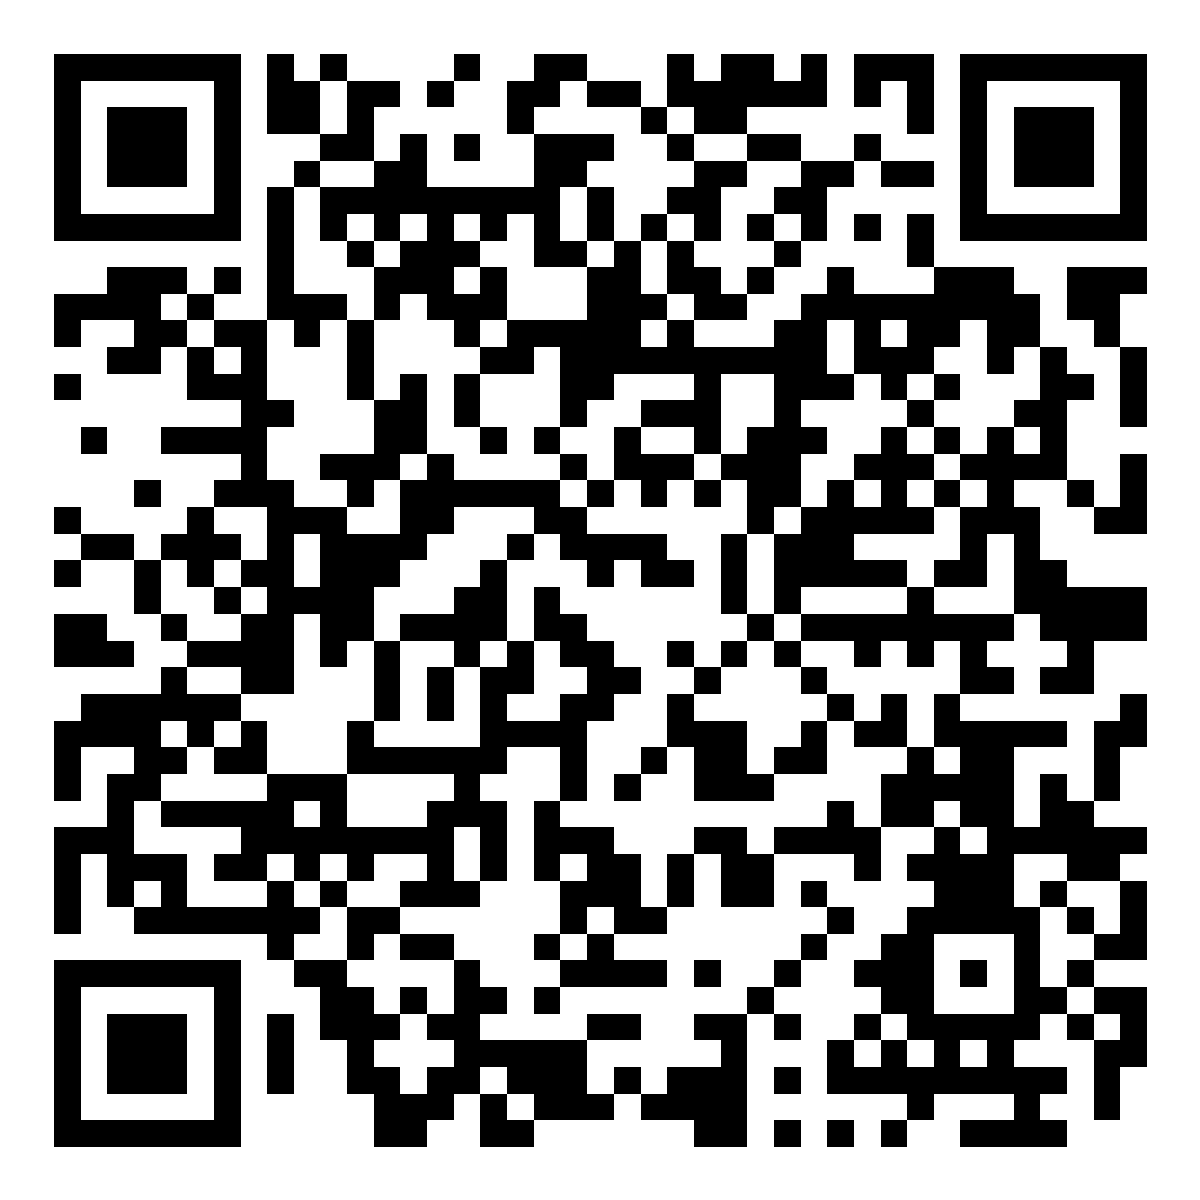
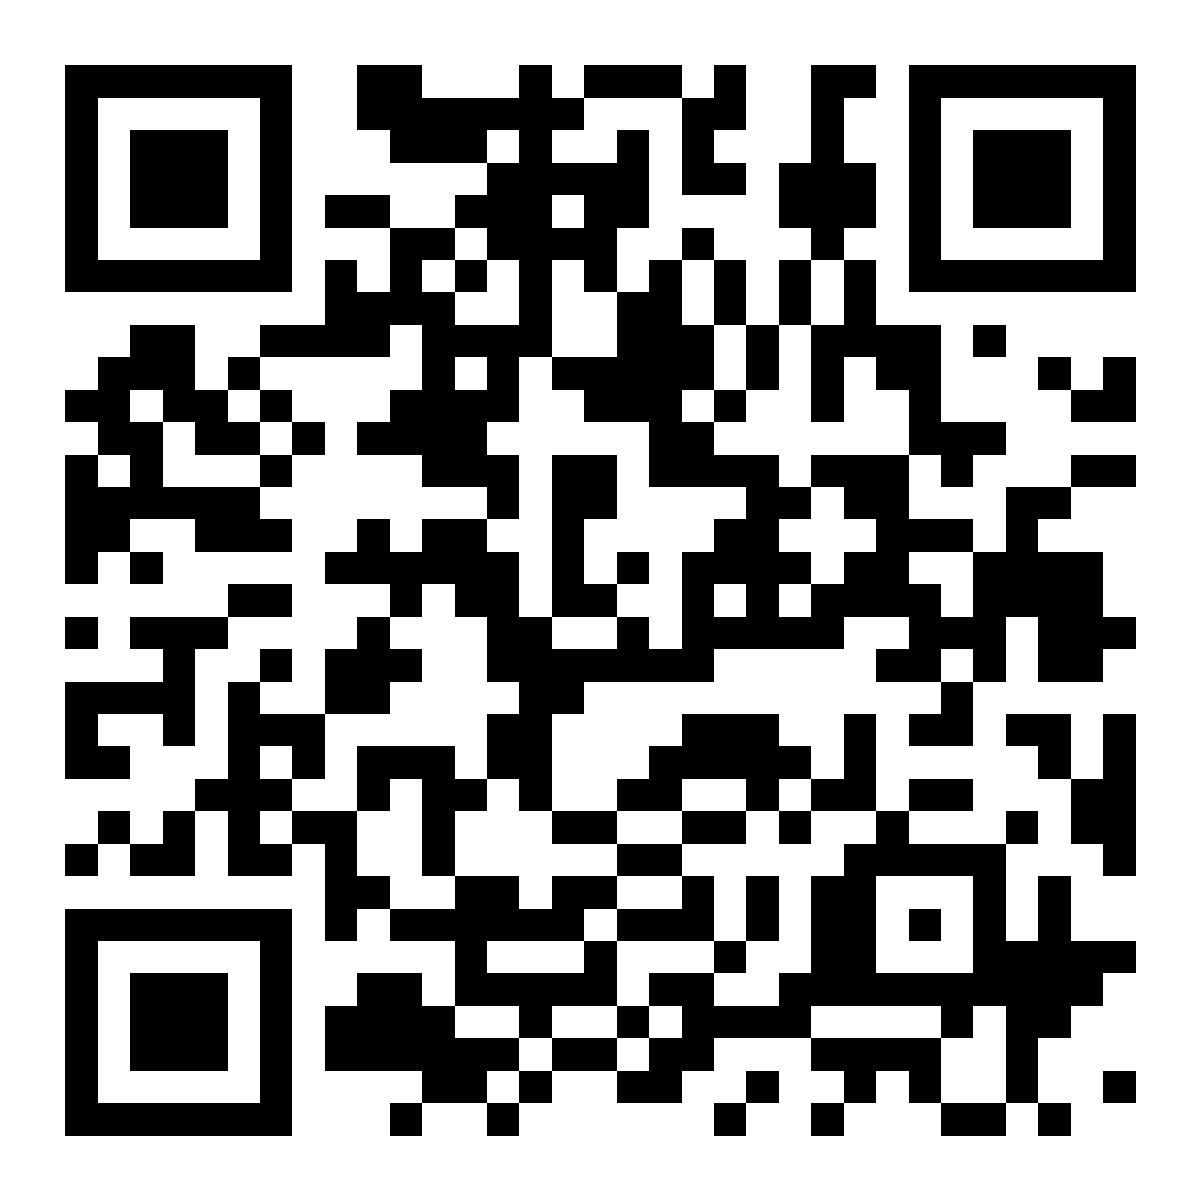
Atualiza README e QR Code pro novo domínio maisqpizza.github.io

diff --git a/README.md b/README.md
@@ -1,29 +1,13 @@
-# Link canônico de redirecionamento (QR Code)
+# Link canônico de redirecionamento (QR Code) — Mais Q Pizza
 
 Página estática que serve de "link mestre" pro QR Code. O QR Code nunca
 muda — quem muda é o destino, editando `index.html` e dando push.
 
-## Publicar (só na primeira vez)
+**Link ao vivo:** https://maisqpizza.github.io/
+**Repositório:** https://github.com/maisqpizza/maisqpizza.github.io
+**Organização GitHub:** maisqpizza (gratuita, sem cartão de crédito)
 
-1. Crie um repositório novo e **público** no GitHub (obrigatório pro GitHub
-   Pages grátis), ex: `promo-redirect`.
-2. Neste diretório, rode:
-   ```
-   git init
-   git add index.html README.md
-   git commit -m "Página inicial de redirecionamento"
-   git branch -M main
-   git remote add origin https://github.com/SEU_USUARIO/promo-redirect.git
-   git push -u origin main
-   ```
-3. No GitHub: **Settings → Pages → Build and deployment → Source: Deploy
-   from a branch → Branch: `main` / `(root)` → Save**.
-4. Em 1-2 minutos o site fica disponível em:
-   `https://SEU_USUARIO.github.io/promo-redirect/`
-
-Esse é o link que vai virar o QR Code (canônico, nunca muda).
-
-## Trocar o destino depois (sempre que quiser)
+## Trocar o destino (sempre que quiser)
 
 1. Abra `index.html`.
 2. Edite o bloco `CONFIG` no topo do `<script>`:
@@ -44,7 +28,15 @@ Também dá pra editar `index.html` direto pelo site do GitHub (ícone de
 lápis no arquivo), sem precisar de terminal — útil pra trocar em cima da
 hora, do celular.
 
+## Gerar o QR Code de novo (só se o link mudar)
+
+```
+node tmp/generate-qr.js
+```
+Gera `qrcode/qrcode.png` (1200px, pra imprimir) e `qrcode/qrcode.svg`
+(vetor) apontando pra `https://maisqpizza.github.io/`.
+
 ## Custo
 
 R$ 0. GitHub Pages é gratuito para repositórios públicos, sem limite de
-tempo, sem cartão de crédito.
+tempo, sem cartão de crédito. Mesmo valendo pra organizações.
